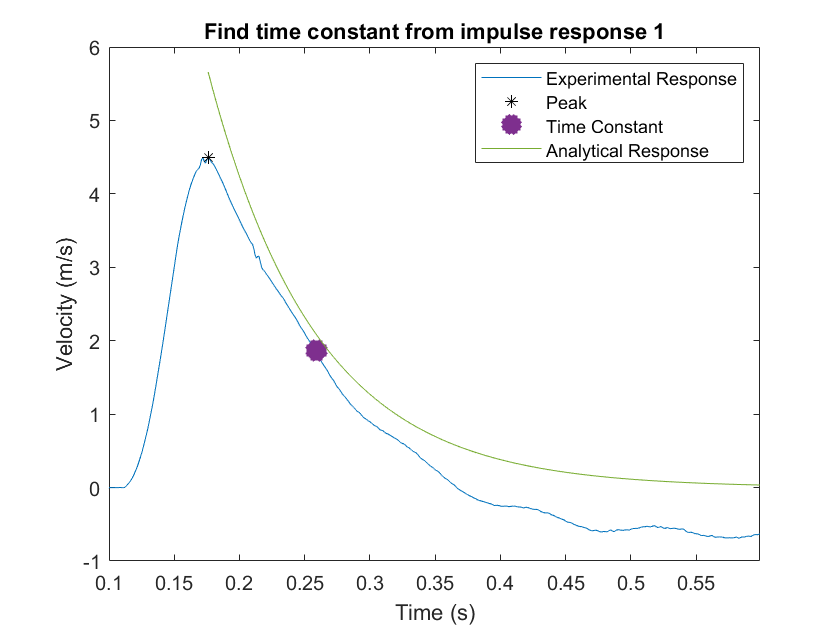
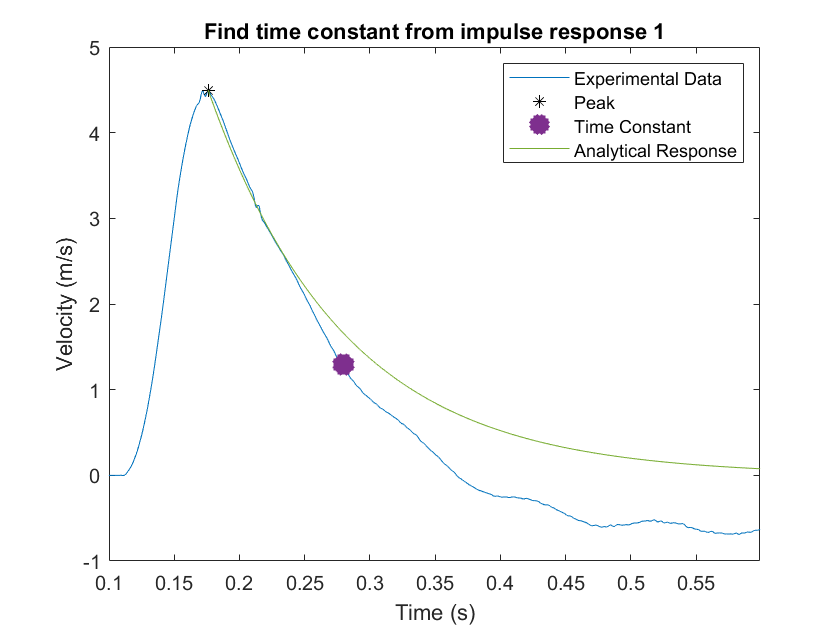
final edits

diff --git a/Lab 2/LAB2_Rectilinear/Lab2_R1.m b/Lab 2/LAB2_Rectilinear/Lab2_R1.m
@@ -14,11 +14,13 @@ fprintf('\n24-452 MSE Lab 2\n');
  m = [2.487 2.487 2.487 1.262];
  c = [20 40 60 40];
  F0 = 2;
+
+ c_exp = [0 0 0 0];
 %% ----------------------------------------------------
 step_files = ["t2_1_1.txt" "t2_1_2.txt" "t2_1_3.txt" "t2_1_4.txt"];
 for i = 1:4;
-    tau = calc_time_const(step_files(i));
-    c_exp = m(i)./tau(i);
+    tau = calc_time_const(step_files(i),i);
+    c_exp(i) = m(i)./tau;
     tau_theoretical = m(i)./c(i);
     fprintf("Time Constant Test %d: %f\n",i,tau)
     fprintf("Damping Coefficient Test %d: %f\n",i,c_exp)
@@ -29,45 +31,13 @@ end
 impulse_files = ["t2_2_1.txt" "t2_2_2.txt" "t2_2_3.txt" "t2_2_4.txt"];
 
 for i = 1:4;
-    peak = peakfinder(impulse_files(i));
-    F0 = peak./m(1);
+    hold on
+    [time_constant,time,t_value,peak] = find_tau_impulse(impulse_files(i),i);
+    F0 = peak.*time_constant.*c_exp(i);
+ 
+    v_analytical = (F0./(c_exp(i).*time_constant)).*exp(-time./time_constant);
+    plot(time+t_value,v_analytical)
+    legend("Experimental Data","Peak","","Time Constant","Analytical Response")
     fprintf("F0 Test %d: %f\n",i,F0)
+    hold off
 end
-%%
-[time, force, disp, velo] = readf("t2_2_2.txt");
-
-% plot figure
-figure()
-plot(time,velo)
-xlim([0.1 time(end)]) % delay of 0.1 seconds during experiments
-xlabel('Time (s)')
-ylabel('Amplitude')
-title('Find time constant from step response')
- 
-[x, y]=ginput(2);
-indx=find(time>x(1) & time<x(2));
-t=time(indx);
-y=velo(indx);
-[p1,ind]=max(y);
-t_value = t(ind);
-
-% plot in existing figure
-hold on
-plot(t_value,p1,'k*')
-
-% final value
-amp = y(ind)
-% value at 1 time constant
-target_value = (1-0.632)*amp
-% find index greater than target_value
-t_indx = find(velo>target_value,4,"last")
-
-plot(time(t_indx),velo(t_indx),'color','k','Linewidth',2)
- 
-% 1-D interpolation
-time_constant = interp1([velo(t_indx(1)-1) velo(t_indx(1))],[time(t_indx(1)-1)
-time(t_indx(1))],target_value)
-
-% plotting the value at time constant
-plot(time_constant,target_value,'*','Linewidth',10)
-time_constant = time_constant - 0.1;

diff --git a/Lab 2/LAB2_Rectilinear/find_tau_impulse.m b/Lab 2/LAB2_Rectilinear/find_tau_impulse.m
@@ -1,4 +1,4 @@
-function [time_constant,time,t_value] = find_tau_impulse(file_name,i)
+function [time_constant,time,t_value,peak] = find_tau_impulse(file_name,i)
 [time, force, disp, velo] = readf(file_name);
 
 % plot figure
@@ -29,10 +29,10 @@ peak_index = find(velo == peak, 1, 'first');
 indx_base=find(time>x0(1) & time<x0(2));
 % base value
 min = mean(velo(indx_base));
-height = peak-min
+height = peak-min;
 
 % value at 1 time constant
-target_value = (1-0.632)*(peak-min);
+target_value = ((1-0.632)*(height))+min;
 % find index greater than target_value
 t_indx = find(velo(peak_index:end) <= target_value, 1, 'first')+ peak_index;
 time_constant = time(t_indx);

diff --git a/Lab 2/LAB2_Rectilinear/peakfind_Q5.m b/Lab 2/LAB2_Rectilinear/peakfind_Q5.m
@@ -1,12 +1,12 @@
-function [t_value, xt_value] = peakfind_Q5(file_name)
+function [t_value, xt_value] = peakfind_Q5(file_name,i)
 [time, force, disp, velo] = readf(file_name);
 
 %plot data
 figure()
-hold on
 plot(time,velo)
 xlabel('Time (s)')
 ylabel('Velocity (m/s)')
+title('Initial Condition Experiment '+string(i))
 %xlim([2 3])   %sets axis limits for viewing options xmin, xmax
 grid on
 
@@ -19,6 +19,7 @@ t=time(indx);
 y=velo(indx);
 
 %plot the selected region
+hold on
 plot(time,velo)
 xlabel('Time (s)')
 ylabel('Velocity (m/s)')

diff --git a/Lab 2/LAB2_Rectilinear/Lab2_R2_Q5.m b/Lab 2/LAB2_Rectilinear/Lab2_R2_Q5.m
@@ -16,8 +16,8 @@ m = [2.487 1.262 0.77];
 file_names = ["t3_1_1.txt" "t3_1_2.txt" "t3_1_3.txt"]
 
 for i = 1:3;
-  t_firstpeak = peakfind_Q5(file_names(i));
-  t_thirdpeak = peakfind_Q5(file_names(i));
+  t_firstpeak = peakfind_Q5(file_names(i),i);
+  t_thirdpeak = peakfind_Q5(file_names(i),i);
   T = (t_thirdpeak-t_firstpeak)/2;
   delta = 0.5 * log(t_firstpeak/t_thirdpeak);
   dampingRatio = 1/sqrt(1 + ((2*pi)/delta)^2);
